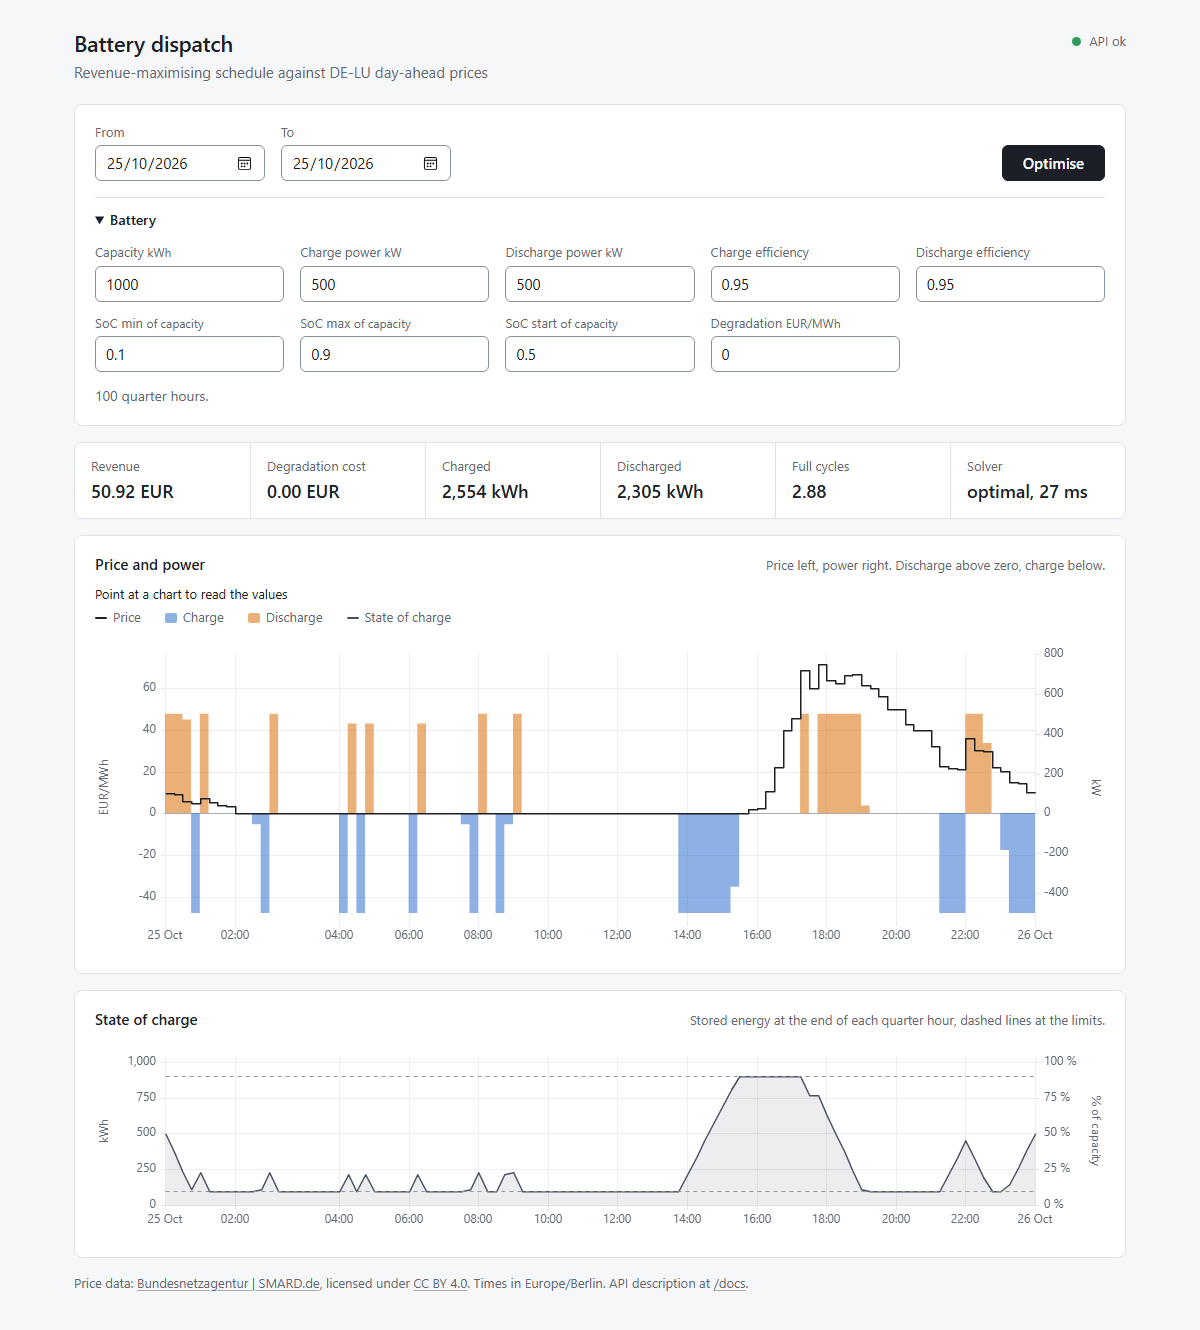
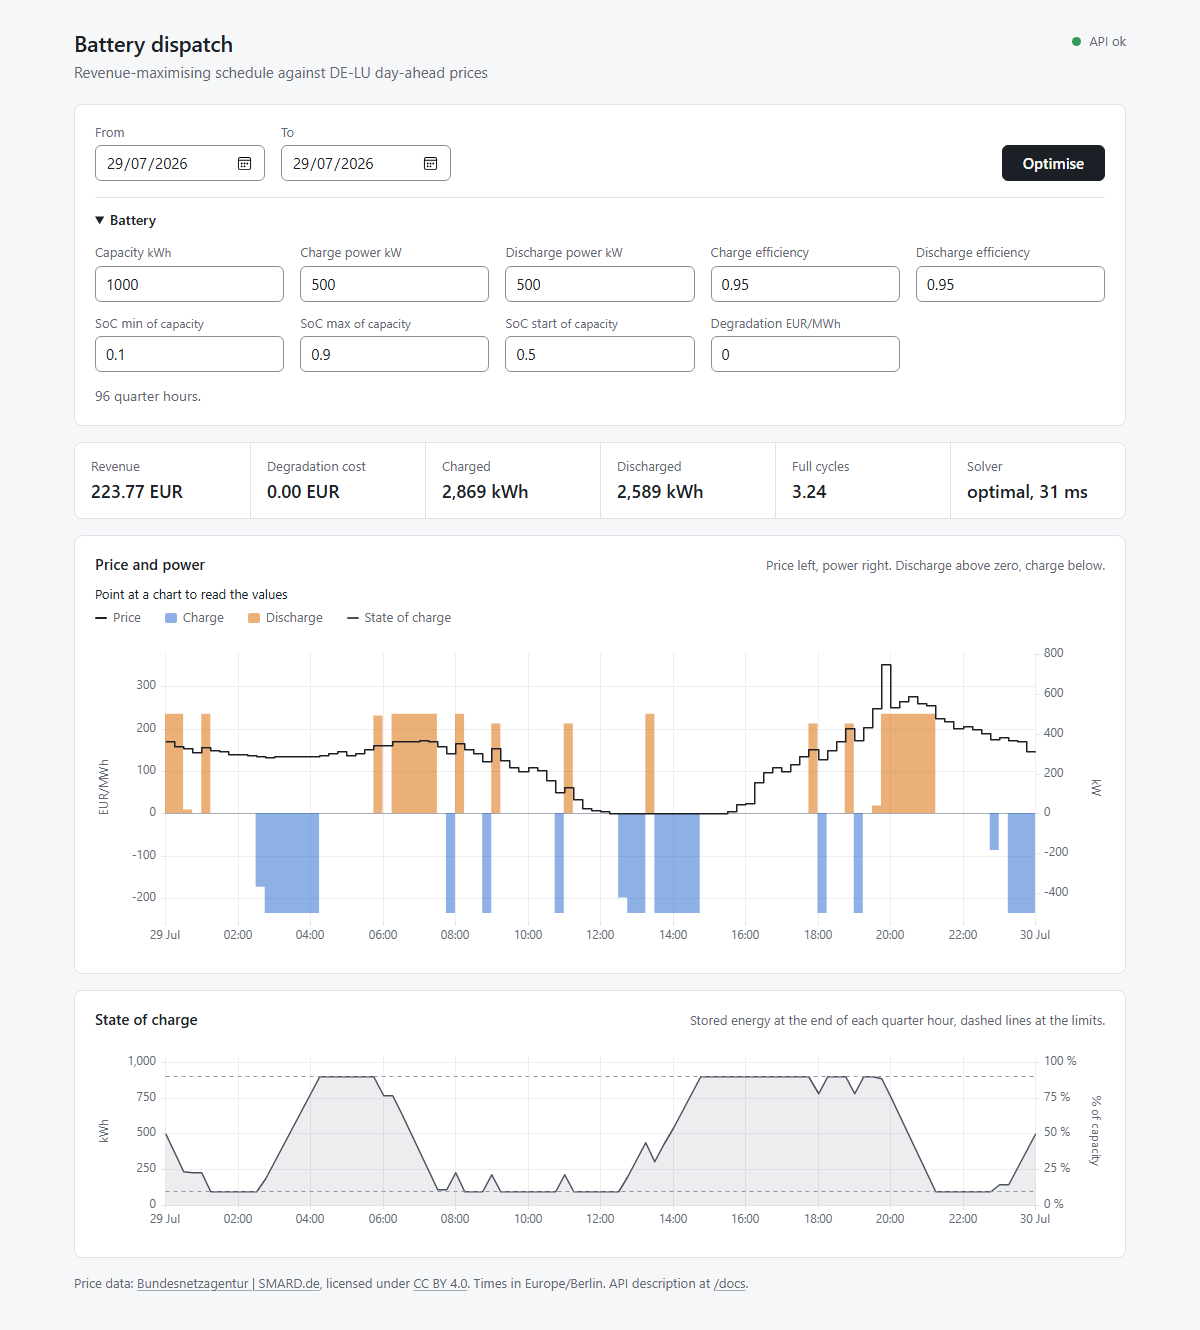
docs: keep the README to the quick start and show a representative day
The README now holds only the requirements, the two start commands and
the link to the page. The curl examples already live in docs/api.md; the
shell note and the PowerShell import move there too.

The screenshot shows 29 July 2026, a weekday with two cycles and an
evening peak, instead of 25 October 2026, on which most quarter hours
were priced at about 0 EUR/MWh.

diff --git a/README.md b/README.md
@@ -8,7 +8,7 @@ charge and discharge schedule.
 A small demonstration project, not a product. Status: price import, optimisation and a
 web page with the schedule work; a comparison with a simple strategy is open.
 
-![Schedule for 25 October 2026](docs/images/ui.png)
+![Schedule for 29 July 2026](docs/images/ui.png)
 
 ## Quick start
 
@@ -24,40 +24,9 @@ cp .env.example .env
 docker compose up --build
 ```
 
-The commands here are for a POSIX shell such as bash, zsh or Git Bash. In Windows
-PowerShell 5.1, `curl` is an alias of `Invoke-WebRequest` and the examples below do not
-work as written; a PowerShell version of the import follows them.
-
-The page at <http://localhost:8000/> optimises today's schedule and imports missing prices
-on its own, see [docs/ui.md](docs/ui.md). The API answers at
-<http://localhost:8000/health>, the OpenAPI description is at
-<http://localhost:8000/docs>. To load one day of prices:
-
-```bash
-curl -X POST localhost:8000/prices/import -H 'content-type: application/json' \
-  -d '{"start": "2026-10-25T00:00:00+02:00", "end": "2026-10-26T00:00:00+01:00"}'
-```
-
-To compute the schedule of a 1 MWh, 500 kW battery for that day:
-
-```bash
-curl -X POST localhost:8000/dispatch/optimize -H 'content-type: application/json' \
-  -d '{"start": "2026-10-25T00:00:00+02:00", "end": "2026-10-26T00:00:00+01:00",
-       "battery": {"capacity_kwh": 1000, "max_charge_kw": 500, "max_discharge_kw": 500,
-                   "charge_efficiency": 0.95, "discharge_efficiency": 0.95,
-                   "soc_min": 0.1, "soc_max": 0.9, "soc_initial": 0.5}}'
-```
-
-The response holds the schedule per quarter hour and the expected revenue. The model and
-its limitations are described in [docs/problem.md](docs/problem.md).
-
-The import in Windows PowerShell:
-
-```powershell
-Invoke-RestMethod -Method Post -Uri http://localhost:8000/prices/import `
-  -ContentType 'application/json' `
-  -Body '{"start": "2026-10-25T00:00:00+02:00", "end": "2026-10-26T00:00:00+01:00"}'
-```
+Then open <http://localhost:8000/>. The page computes today's schedule and loads missing
+prices from SMARD on its own, see [docs/ui.md](docs/ui.md). The API is described at
+<http://localhost:8000/docs> and in [docs/api.md](docs/api.md), with examples.
 
 ## Documentation
 

diff --git a/docs/api.md b/docs/api.md
@@ -3,6 +3,16 @@
 The interactive OpenAPI description is served at `/docs` while the application runs.
 This page covers the rules that apply across endpoints.
 
+The `curl` examples are written for a POSIX shell such as bash, zsh or Git Bash. In
+Windows PowerShell 5.1, `curl` is an alias of `Invoke-WebRequest` and the examples do not
+work as written. The import there looks like this:
+
+```powershell
+Invoke-RestMethod -Method Post -Uri http://localhost:8000/prices/import `
+  -ContentType 'application/json' `
+  -Body '{"start": "2026-10-25T00:00:00+02:00", "end": "2026-10-26T00:00:00+01:00"}'
+```
+
 ## Time ranges
 
 - All ranges are half-open: `[start, end)`. A price belongs to the range if the quarter

diff --git a/docs/ui.md b/docs/ui.md
@@ -6,7 +6,7 @@ HTML, CSS and JavaScript under `battery_dispatch/communication/http/frontend/`, 
 build step. It uses only the API described in [api.md](api.md), so everything it shows can
 also be fetched with `curl`.
 
-![Schedule for 25 October 2026](images/ui.png)
+![Schedule for 29 July 2026](images/ui.png)
 
 ## Use
 
